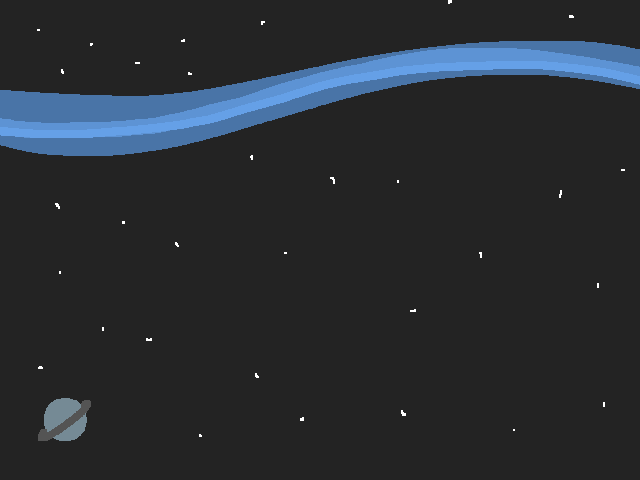
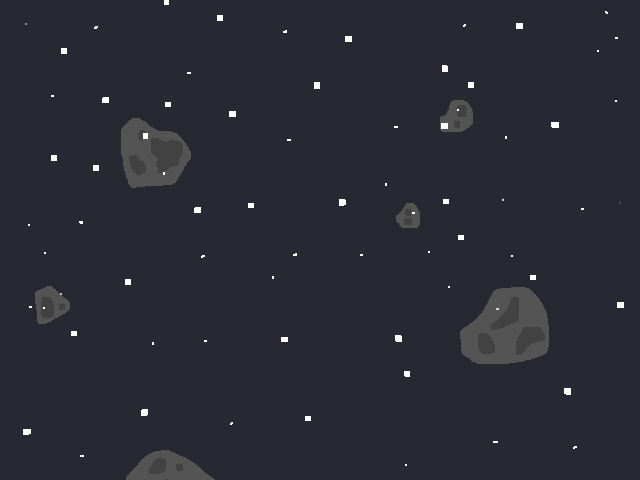
uploaded new asset

diff --git a/src/scenes/Play.js b/src/scenes/Play.js
@@ -4,15 +4,15 @@ class Play extends Phaser.Scene {
     }
     preload() {
         //load images/tile sprites
-        this.load.image('newRocket', './assets/rocket.png');
-        this.load.image('newShip', './assets/spaceship.png');
-        this.load.image('starfield', './assets/starfield.png');
+        this.load.image('newRocket', './assets/newRocket.png');
+        this.load.image('newShip', './assets/newShip.png');
+        this.load.image('newStars', './assets/newStars.png');
         this.load.spritesheet('explosion', './assets/explosion.png', {frameWidth: 64, frameHeight: 32, startFrame: 0, endFrame: 9});
     }
 
     create() {
         //place tile sprite
-        this.starfield = this.add.tileSprite(0, 0, 640, 480, 'starfield').setOrigin(0, 0);
+        this.starfield = this.add.tileSprite(0, 0, 640, 480, 'newStars').setOrigin(0, 0);
         //green UI background
         this.add.rectangle(0, borderUISize + borderPadding, game.config.width, borderUISize * 2, 0x00FF00).setOrigin(0, 0);
 
@@ -26,7 +26,7 @@ class Play extends Phaser.Scene {
         this.p1Rocket = new Rocket(this, game.config.width/2, game.config.height - borderUISize - borderPadding, 'rocket').setOrigin(0.5, 0);
 
         //add spaceships (x3)
-        this.ship01 = new Spaceship(this, game.config.width + borderUISize*6, borderUISize*4, 'spaceship', 0, 30).setOrigin(0, 0);
+        this.ship01 = new Spaceship(this, game.config.width + borderUISize*6, borderUISize*4, 'newShip', 0, 30).setOrigin(0, 0);
         this.ship02 = new Spaceship(this, game.config.width + borderUISize*3, borderUISize*5 + borderPadding*2, 'spaceship', 0, 20).setOrigin(0, 0);
         this.ship03 = new Spaceship(this, game.config.width, borderUISize*6 + borderPadding*4, 'spaceship', 0, 10).setOrigin(0, 0);
 
